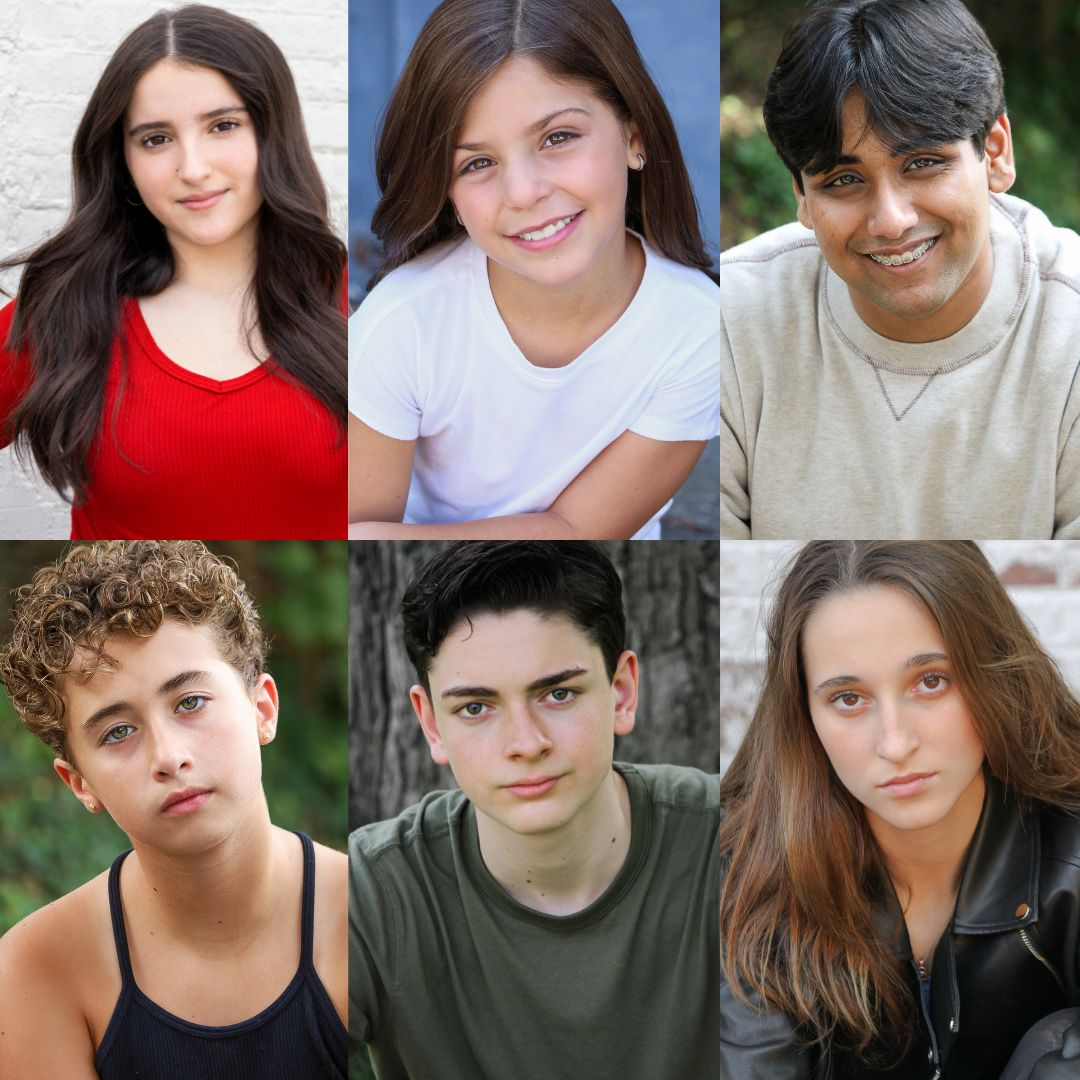
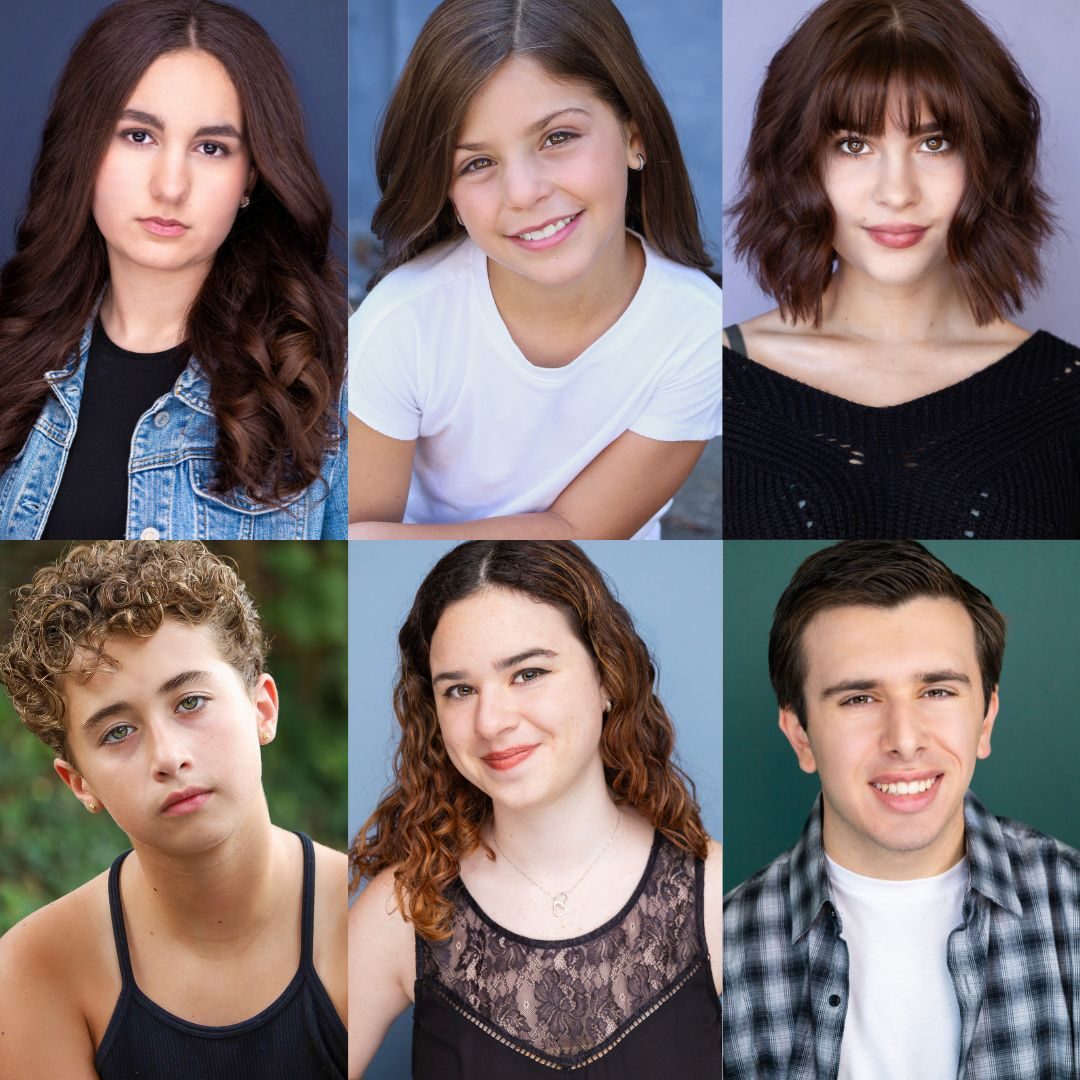
done

diff --git a/script.js b/script.js
@@ -12,7 +12,7 @@ shownMenuElement = document.getElementById("home")
 
 listAbout = document.getElementById("listAbout")
 
-images = ["scrollImages/Sofia_Final Headshot_SCREEN-2 2.jpg","scrollImages/Elena Headshots-4 2.jpg","scrollImages/Alia Fina Headshots-2 2.jpg","scrollImages/cassidy-1 2.jpg","scrollImages/Edited Engagement Party Photos-6 2.jpg","scrollImages/Edward Headshots-4 2.jpg","scrollImages/IMG_3351 2.jpg","scrollImages/IMG_8967 3.jpg","scrollImages/IMG_9559 2.jpg","scrollImages/Julia_Final Headshot_3 2.jpg","scrollImages/MAMMA MIA PROMO PIC-47 2.jpg","scrollImages/Ryan_FINAL HEADSHOT_2_SCREEN 2.jpg"]
+images = ["scrollImages/DianaFinalHeadshots-7 2.jpg","scrollImages/Lily.jpg","scrollImages/Julia_Final Headshot_3 2.jpg","scrollImages/Edward Headshots-4 2.jpg","scrollImages/cassidy-1 2.jpg","scrollImages/Sofia_Final Headshot_SCREEN-2 2.jpg","scrollImages/MelinaFinalHeadshots-3 2.jpg"]
 
 index = 0
 

diff --git a/index.html b/index.html
@@ -80,8 +80,8 @@
                         <div class = "aboutPhoto" id = "headshotPhoto"></div>
                         <div class = "desc">
                             <p class = "aboutTitle"><b>HEADSHOTS</b></p>
-                            <p class = "aboutDesc">$100 ($130 as of January 1st)</p>
-                            <p class = "aboutDesc">One hour, 100+ downloadable photos, 3 professionally retouched photos. Each additional retouched headshot is $15.</p>
+                            <p class = "aboutDesc">$130</p>
+                            <p class = "aboutDesc">Up to 5 looks, 100+ downloadable photos, 3 professionally retouched photos. Each additional retouched headshot is $15.</p>
                         </div>
                     </div>
                     <div class = "aboutDiv" id = "pricingDiv">
